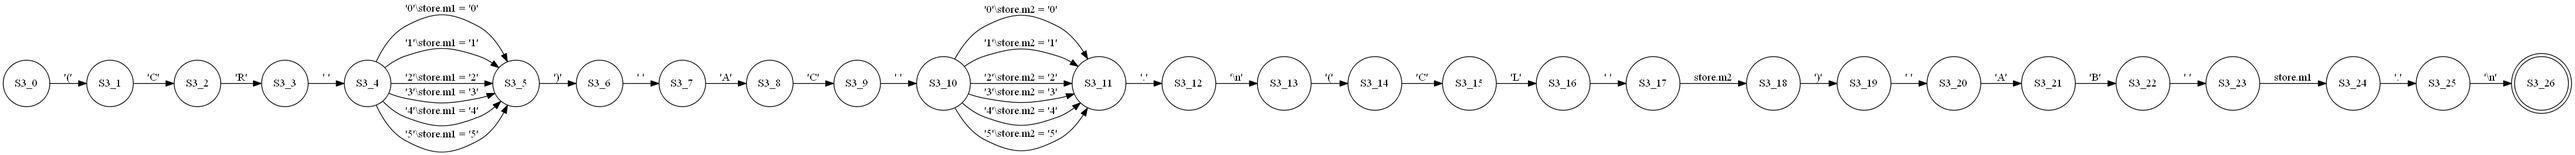
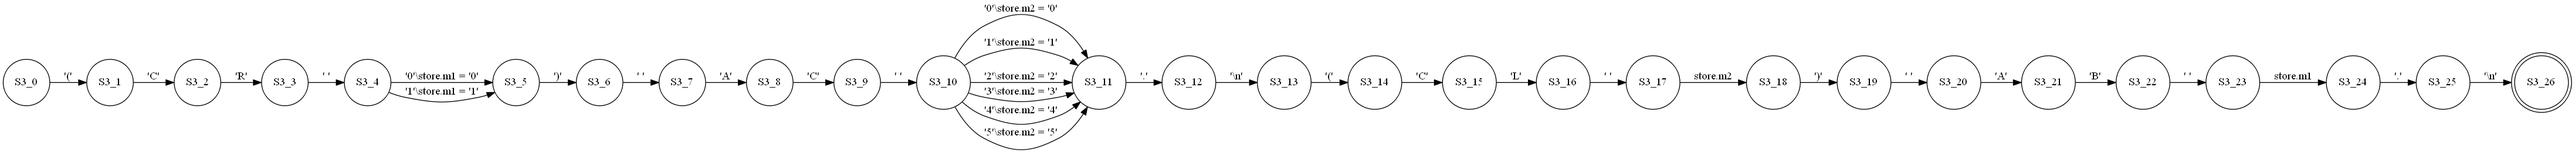
Only 2 chatrooms...

diff --git a/assignment1/useCase3Checker.py b/assignment1/useCase3Checker.py
@@ -10,7 +10,7 @@ def makeDot():
     graph.write_png('useCase3FSA.png')
 
 
-from scanner import *
+from scannerNew import *
 
 __trace__ = False
 
@@ -68,18 +68,6 @@ class Automaton(Scanner):
                 return "S3_5"
             elif input == '1':
                 self.m1 = '1'
-                return "S3_5"
-            elif input == '2':
-                self.m1 = '2'
-                return "S3_5"
-            elif input == '3':
-                self.m1 = '3'
-                return "S3_5"
-            elif input == '4':
-                self.m1 = '4'
-                return "S3_5"
-            elif input == '5':
-                self.m1 = '5'
                 return "S3_5"
             else:
                 return None

diff --git a/assignment1/test.py b/assignment1/test.py
@@ -4,7 +4,7 @@ print(">> testing binary string recognition/accepance of even number")
 
 import useCase3Checker
 
-for inp in ["(CR 0) AC 4.\n(CL 4) AB 0.\n", "(CR 0) AC 4.\n(CL 4) AB 0.", "(CR 0) AC 4.\n(CL 0) AB 4.\n"]:
+for inp in ["(CR 0) AC 4.\n(CL 4) AB 0.\n", "(CR 0) AC 4.\n(CL 4) AB 0.", "(CR 0) AC 4.\n(CL 0) AB 4.\n", "(CR 0) AC 0.\n(CL 0) AB 0.\n"]:
  str=inp
  sc=useCase3Checker.Automaton(str)
  success=sc.scan()
